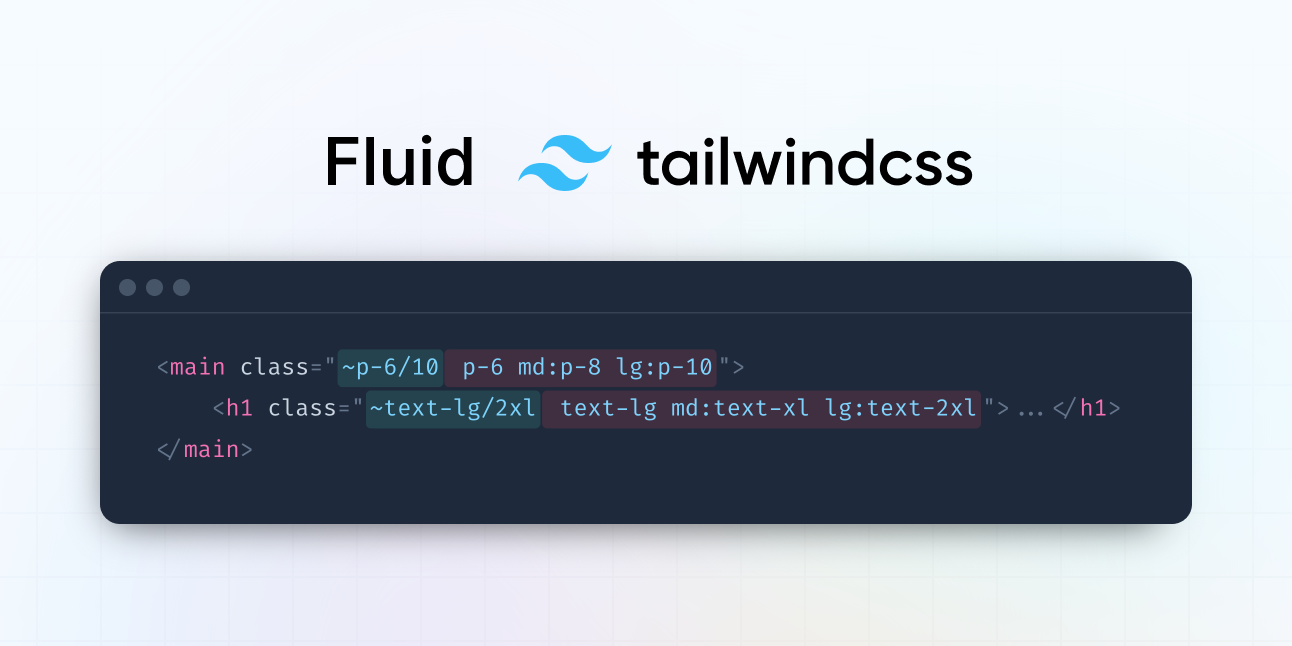
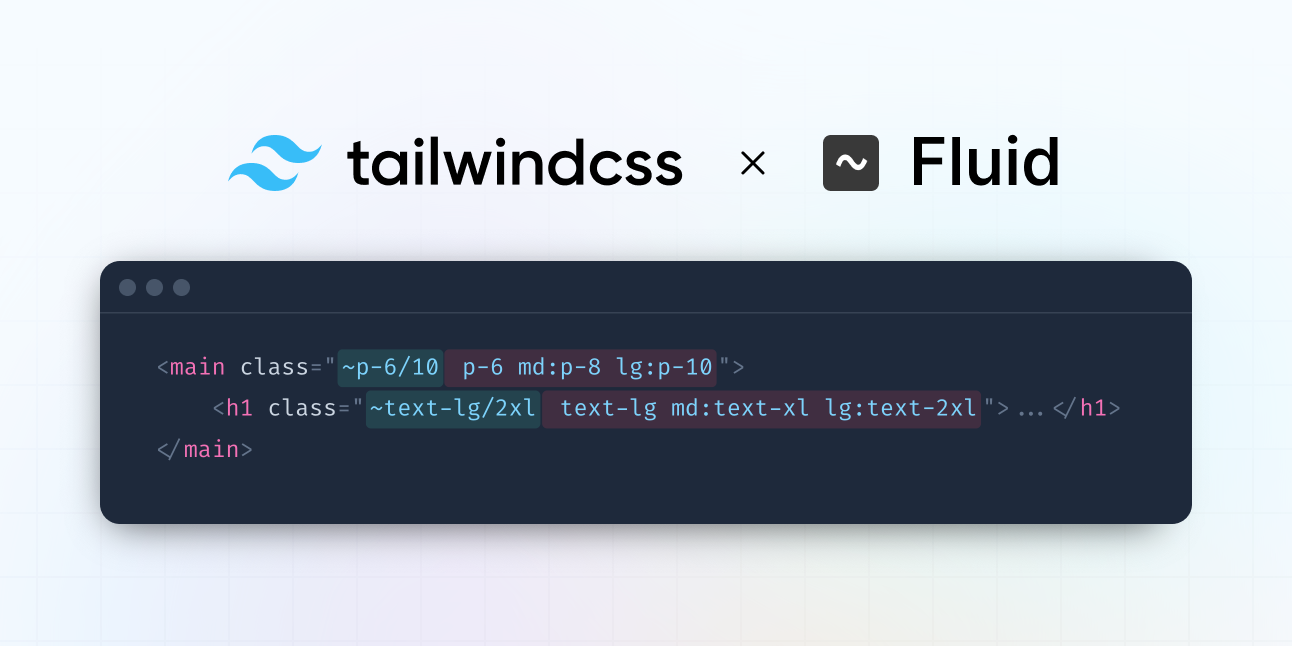
Stop violating Tailwind brand guidelines

Changed region(s): [[0.1858, 0.1858, 0.8359, 0.3096]]

diff --git a/README.md b/README.md
@@ -1,4 +1,4 @@
-# Fluid Tailwind
+# Fluid for Tailwind CSS
 
 https://github.com/barvian/fluid-tailwind/assets/868352/8b1e89ca-1b85-4555-8a6c-347f0d5d8dc6
 
